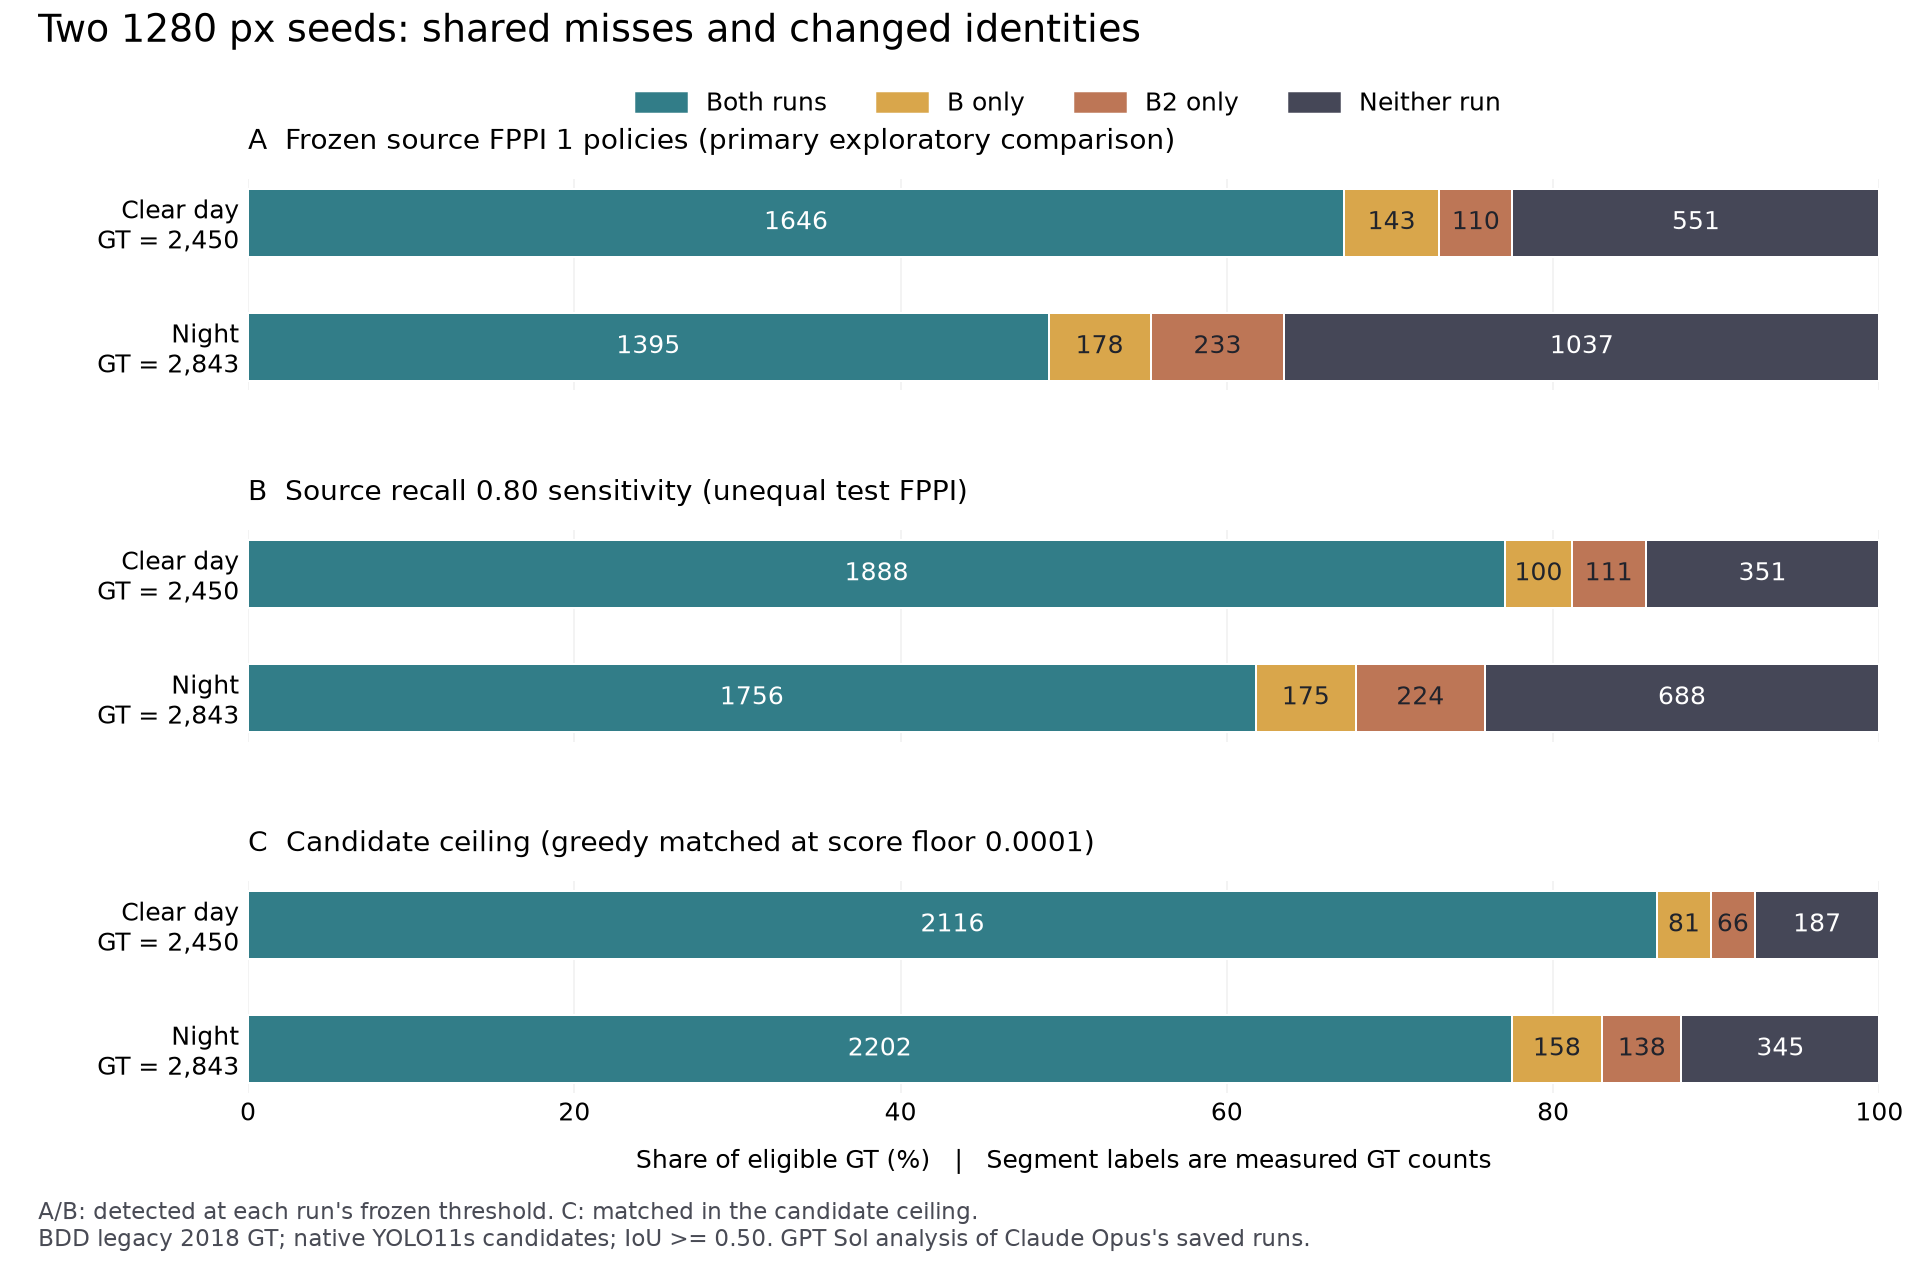
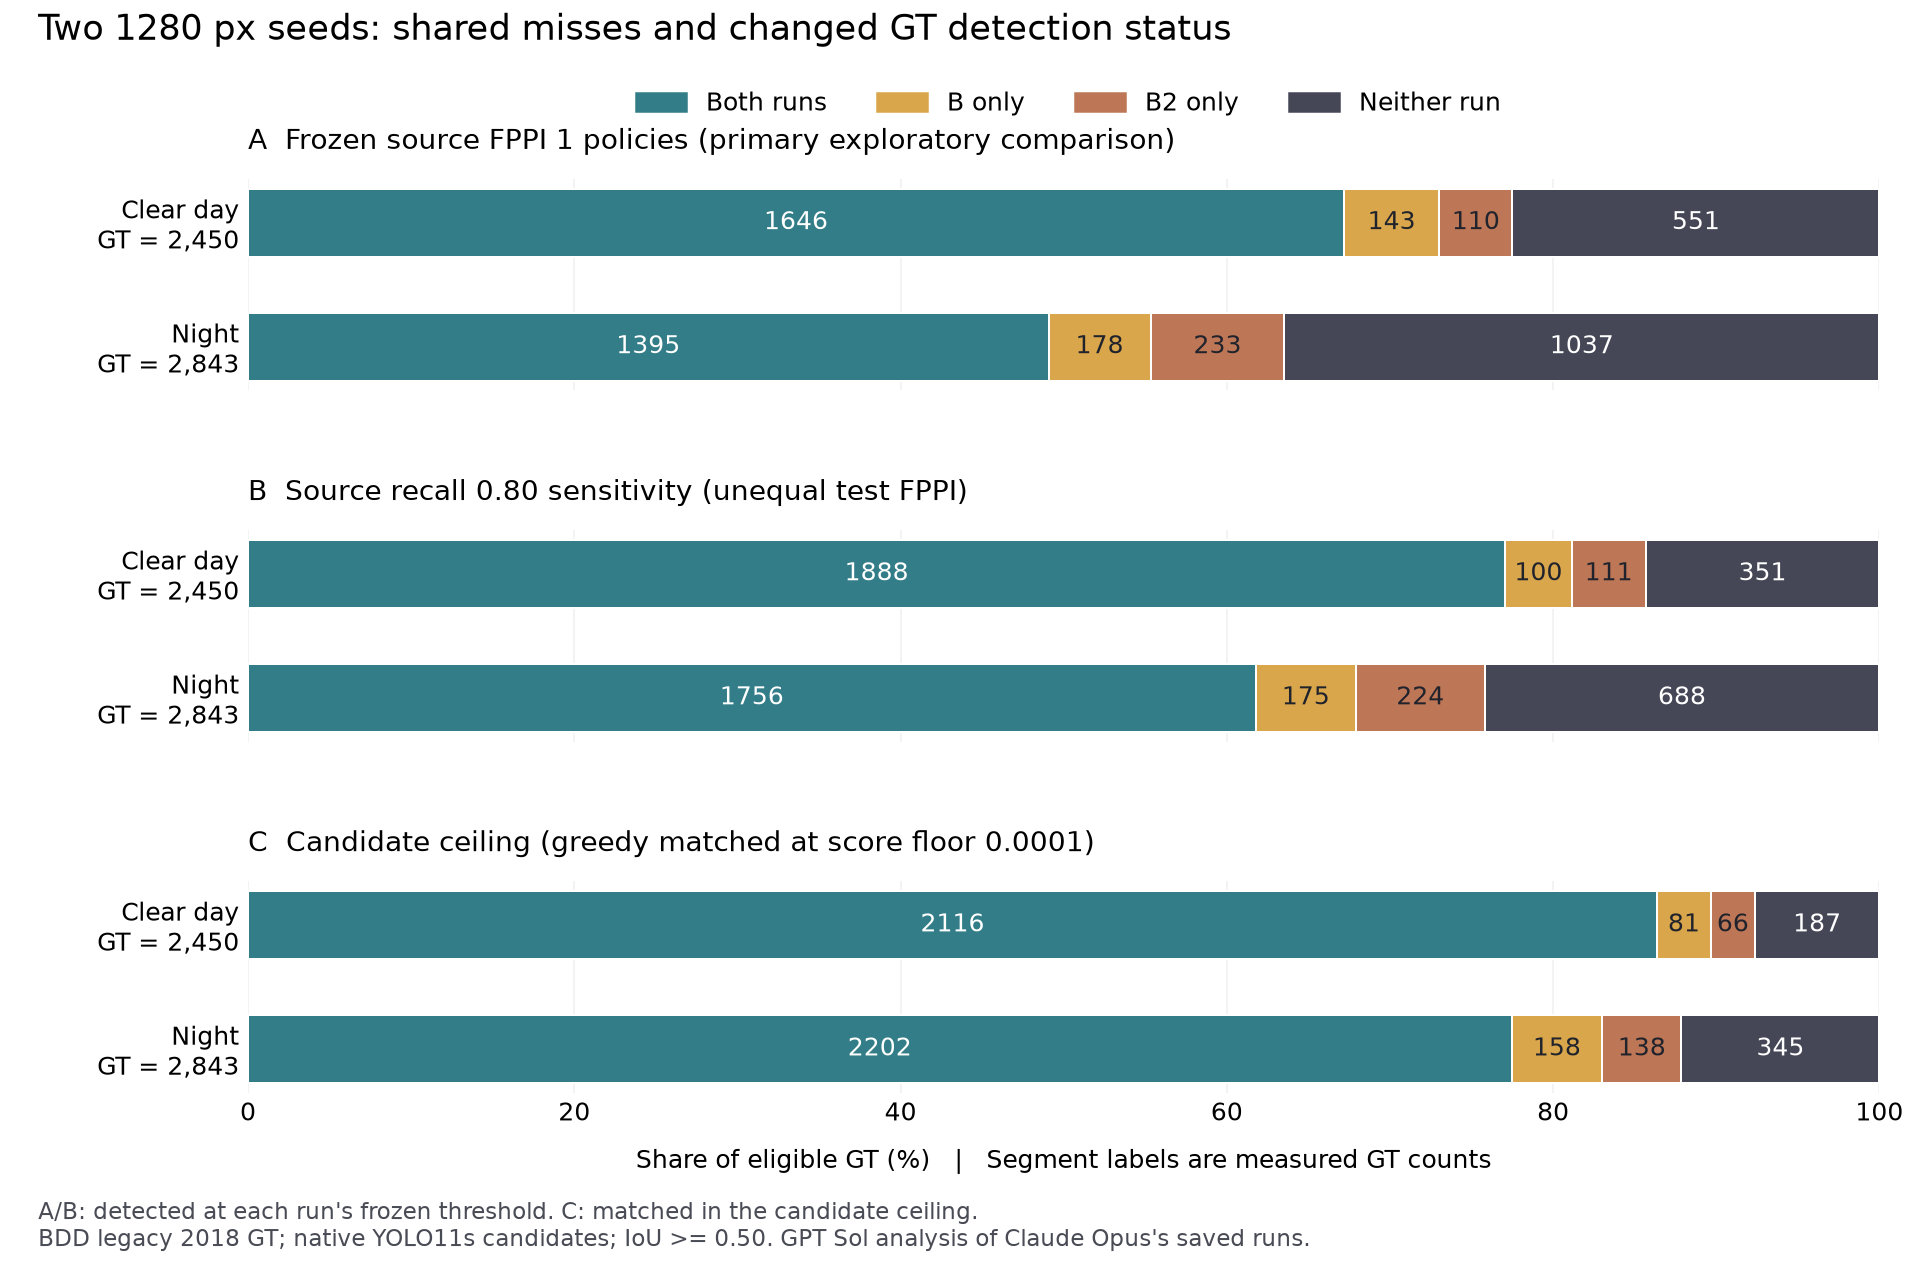
Resolve seed-overlap publication privacy and terminology findings

Changed region(s): [[0.0309, 0.0, 0.6494, 0.0305]]

diff --git a/experiments/2026-11-26_seed_miss_diagnosis/figure.py b/experiments/2026-11-26_seed_miss_diagnosis/figure.py
@@ -45,7 +45,7 @@ for ax, (policy, title) in zip(axes, panels):
     for spine in ax.spines.values():
         spine.set_visible(False)
 axes[-1].set_xlabel("Share of eligible GT (%)   |   Segment labels are measured GT counts", labelpad=9)
-fig.suptitle("Two 1280 px seeds: shared misses and changed identities", x=.02, ha="left", fontsize=15, y=.99)
+fig.suptitle("Two 1280 px seeds: shared misses and changed GT detection status", x=.02, ha="left", fontsize=14, y=.99)
 fig.legend(handles=[Patch(color=c, label=l) for c, l in zip(colors,
            ["Both runs", "B only", "B2 only", "Neither run"])],
            loc="upper center", bbox_to_anchor=(.56, .946), ncol=4, frameon=False)

diff --git a/docs/research/2026-11-26_seed_miss_diagnosis.md b/docs/research/2026-11-26_seed_miss_diagnosis.md
@@ -2,7 +2,7 @@
 
 **GPT Sol, 2026-11-26. Exploratory CPU analysis of Claude Opus 5.5's saved B (seed 0) and B2 (seed 1) YOLO11s runs. No new training, GPU use or formal review; G0 pending.**
 
-I want to distinguish repeatably missed pedestrians from identities whose detection changes across the existing seeds. **Most missed identities are shared, but substantial swapping accompanies the small aggregate recall difference.** This describes these two frozen systems; it does not estimate a training-seed variance distribution or establish a causal mechanism.
+I want to distinguish repeatably missed GT annotations from annotations whose detection status changes across the existing seeds. **Most missed GT annotations are shared, but substantial status changes accompany the small aggregate recall difference.** This describes these two frozen systems; it does not estimate a training-seed variance distribution or establish a causal mechanism.
 
 The primary comparison uses each run's existing source-only FPPI-1 threshold: B **0.1046720892**, B2 **0.1026425362**. Both selection splits have 1,842 FP / 1,842 images. Test FPPI differs: clear day **1.117/1.095**, night **0.456/0.544** (B/B2). Intended source cost is matched; test cost is not guaranteed equal.
 
@@ -11,7 +11,7 @@ The primary comparison uses each run's existing source-only FPPI-1 threshold: B 
 | Clear day (1,764 images) | 2,450 | 1,646 | 143 | 110 | 551 |
 | Night (3,929 images, all weather) | 2,843 | 1,395 | 178 | 233 | 1,037 |
 
-At night, shared misses are **1,037/2,843 = 36.5%** of all GT, versus **551/2,450 = 22.5%** on clear day. Of identities missed by either seed, **1,037/1,448 = 71.6%** are missed by both; **411/1,448 = 28.4%** change detection status. Clear day gives **551/804 = 68.5%** shared and **253/804 = 31.5%** changed. Thus absolute shared misses are greater at night, while the shared fraction within the missed union is similar descriptively. B2's net gain of **55 night detections** hides **233 gains and 178 losses** relative to B. “Shared” means across this pair only.
+At night, shared misses are **1,037/2,843 = 36.5%** of all GT, versus **551/2,450 = 22.5%** on clear day. Of GT annotations missed by either seed, **1,037/1,448 = 71.6%** are missed by both; **411/1,448 = 28.4%** change detection status. Clear day gives **551/804 = 68.5%** shared and **253/804 = 31.5%** changed. Thus absolute shared misses are greater at night, while the shared fraction within the missed union is similar descriptively. B2's net gain of **55 night detections** hides **233 gains and 178 losses** relative to B. “Shared” means across this pair only.
 
 Within the shared operating misses:
 
@@ -42,3 +42,15 @@ The existing height bins also show shared misses beyond small pedestrians:
 GPT reused the unchanged reference matcher: IoU ≥0.50, score floor 1e-4, native 1280 px candidates, class-aware NMS 0.70 and cap 3,000 before pedestrian filtering; no cap hits. Both runs use the same hash-verified GT manifest. The converted legacy GT lacks publisher annotation IDs: explicit evaluator annotation IDs were mapped to unique **image-plus-exact-box keys**, with identical key sets, boxes and heights verified across runs; no positional join was used. Per-person records remain private. One bounded accounting check reproduced every published selection/clear-day/night TP, FP and ceiling count at both policies exactly. No IID p-values or new intervals were computed.
 
 Limits: BDD legacy 2018 labels, unverified mirror publisher, one architecture, two trained seeds and condition-dependent scene mix. Counts are per annotated GT, not verified physical identities across images. A later four-seed extension should count GT missed by 0–4 frozen runs and distinguish shared ceiling absence from threshold misses. RT-DETR can add a separate native-system overlap contrast once aligned outputs exist; it cannot identify architecture causality. The [actual exchange record](2026-11-26_seed_miss_diagnosis/discussion.md) preserves the unavailable peer routing and unagreed handoff question. [Counts](2026-11-26_seed_miss_diagnosis/counts.json), [provenance](2026-11-26_seed_miss_diagnosis/provenance.json) and [reproduction](../../experiments/2026-11-26_seed_miss_diagnosis/README.md) accompany this note. Independent review and my explicit merge approval remain later steps.
+
+## Independent review disposition
+
+A separate [GPT Sol review](../reviews/2026-11-26_seed_miss_review.md) of original
+commit `4fc7938a` passed the scientific accounting. It independently reduced
+all policy/height matrices and bounded rematching covered 241 GT across 24
+images per run; full rematching was not performed. The coordinator replaced
+personal absolute paths in reproduction examples with caller-supplied variables
+and changed the opening/figure wording to GT detection status. Counts and
+scientific conclusions are unchanged; the updated figure was regenerated and
+visually inspected. This supersedes the historical pending-review sentence
+above, not the pending G0 gate or my explicit merge approval.

diff --git a/experiments/2026-11-26_seed_miss_diagnosis/README.md b/experiments/2026-11-26_seed_miss_diagnosis/README.md
@@ -4,11 +4,14 @@ GPT Sol, 2026-11-26; original B/B2 runs and reused `match_chunk` by Claude Opus 
 
 Scope: existing B (1280 seed 0) and B2 (1280 seed 1), selection plus clear-day/night test; no inference, fitting, threshold selection, GPU calls or NightOwls scoring. Stop after one empirical overlap analysis, exact published-marginal accounting, figure and handback. This is not a formal review.
 
-Run from the repository root in PowerShell, using existing environments:
+Run from the repository root in PowerShell. Set `$CpuPython` and `$PlotPython`
+to the existing CPU and plotting interpreter executables, `$BddInputs` to the
+local BDD experiment inputs, and `$PrivateEvidence` to a private, git-ignored
+output directory. Supply these machine-specific values locally:
 
 ```powershell
-& C:/Users/Advait/ar-work/venv-rtdetrv2/Scripts/python.exe -B experiments/2026-11-26_seed_miss_diagnosis/diagnose.py --inputs C:/Users/Advait/autonomous-sys-research/outputs/bdd_transfer_20261115 --private-out C:/Users/Advait/autonomous-sys-research/outputs/seed_miss_diagnosis_20261126
-& C:/Users/Advait/autonomous-sys-research/tmp/pdfs/venv/Scripts/python.exe -B experiments/2026-11-26_seed_miss_diagnosis/figure.py
+& $CpuPython -B experiments/2026-11-26_seed_miss_diagnosis/diagnose.py --inputs $BddInputs --private-out $PrivateEvidence
+& $PlotPython -B experiments/2026-11-26_seed_miss_diagnosis/figure.py
 ```
 
 The private caches `B_matches.json` and `B2_matches.json` retain person scores, image IDs, evaluator annotation IDs, unique image/geometry keys, boxes and heights; they must not enter Git. Existing prediction hashes, GT hash and evaluator/helper hashes guard cache reuse. New overlap analysis uses exact geometry-key joins; GT order is only used inside the unchanged matcher to construct its own annotation IDs. Duplicate geometry keys fail closed rather than guessing identity. Height bins partition the full matched population without rematching or changing the denominator.
@@ -17,4 +20,4 @@ Public `counts.json` contains integer aggregate counts only (including selection
 
 `provenance.json` retains frozen thresholds and file hashes separately from counts. The real-data accounting assertions check the hash-frozen GT, prediction coverage/floor/cap, identical GT geometry keys and heights, height-bin totals, all overlap totals, and exact published TP/FP/ceiling marginals on selection, clear day and night at both policies. PASS on the real cached predictions; no synthetic test, hypothesis test, seed-variance estimate or new confidence interval was used. CPU matching ran once per run, with caches reused for the provenance correction. New GPU spend: 0 CU. No paid resource was allocated.
 
-The note and figure use only public counts. Preserve the two-seed limitation and the core report's distinction between absolute absence and ceiling difference. The unavailable peer contact is recorded in `docs/research/2026-11-26_seed_miss_diagnosis/discussion.md`. Independent review is reserved for a new coordinator-owned task; my explicit approval still governs any later merge.
+The note and figure use only public counts. Preserve the two-seed limitation and the core report's distinction between absolute absence and ceiling difference. The unavailable peer contact is recorded in `docs/research/2026-11-26_seed_miss_diagnosis/discussion.md`. A separate independent GPT Sol review subsequently passed scientific accounting; its required private-path correction and optional terminology correction are resolved in publication. My explicit approval still governs any later merge.

diff --git a/docs/collaboration/task_drift_log.md b/docs/collaboration/task_drift_log.md
@@ -248,3 +248,17 @@ correction or extra test loop was needed. The coordinator retained dependence,
 annotation/scale and derived-padding limits and integrated the result after
 PR16 merged. Next milestone is bounded RT-DETR training, already assigned to
 one Colab operator; no second session or repeated inference is authorized here.
+# 2026-11-26 existing-seed diagnostic publication (GPT Sol coordinator)
+
+The CPU collaborator completed a bounded per-annotation overlap diagnosis;
+the separate reviewer reproduced all policy/height counts and bounded rematching.
+No scientific fix was needed. The coordinator removed personal paths from
+reproduction examples and clarified detection-status wording, with counts
+unchanged. No new model inference or broad test loop was performed.
+
+Peer contact was unavailable. GPT recorded its exact failed routes; the root's
+steer also returned no running turn because Opus was awaiting its existing
+allocation command. Root read that thread once after the concrete error and
+preserved the handoff privately rather than restart or poll it. No discussion
+or agreement is inferred. The next training milestone still belongs to the
+single Opus operator; this analysis neither changes its recipe nor spends CU.
